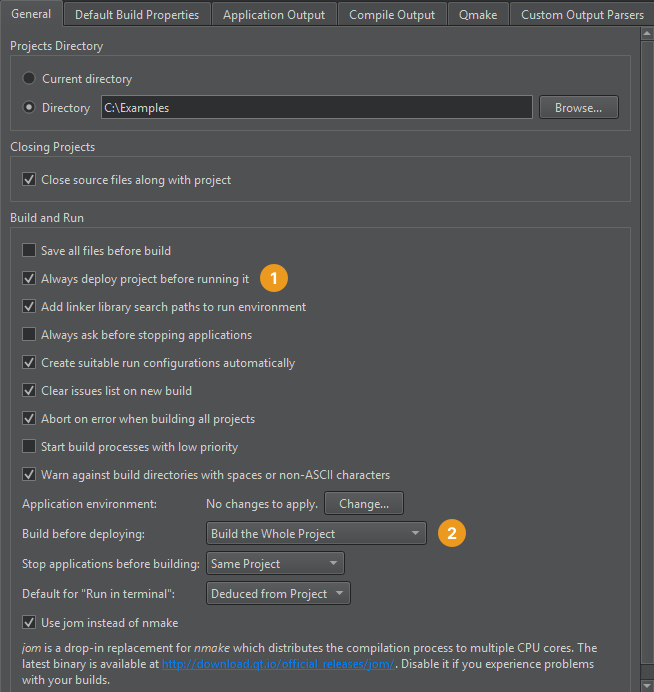
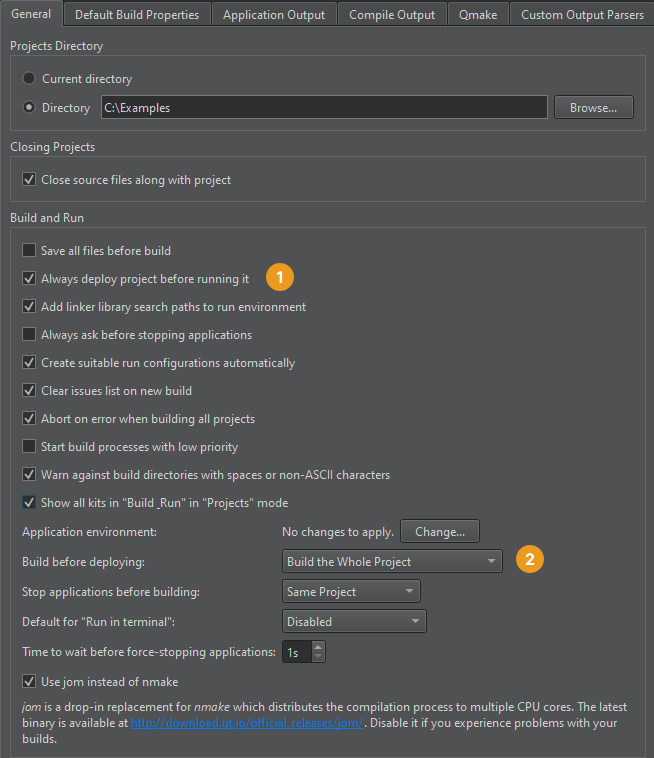
Doc: Describe the option for hiding unconfigured kits
Task-number: QTCREATORBUG-30604

diff --git a/dist/changelog/changes-14.0.0.md b/dist/changelog/changes-14.0.0.md
@@ -129,8 +129,8 @@ Editing
 Projects
 --------
 
-* Added the option to hide all unconfigured kits from the list in `Projects`
-  mode
+* Added the `Hide Inactive Kits`/`Show All Kits` button to hide inactive kits
+  from the list in the `Projects` mode
 * Added support for user comments in the environment editor
 * Fixed the parsing of file links when color was used for the output
   ([QTCREATORBUG-30774](https://bugreports.qt.io/browse/QTCREATORBUG-30774))
